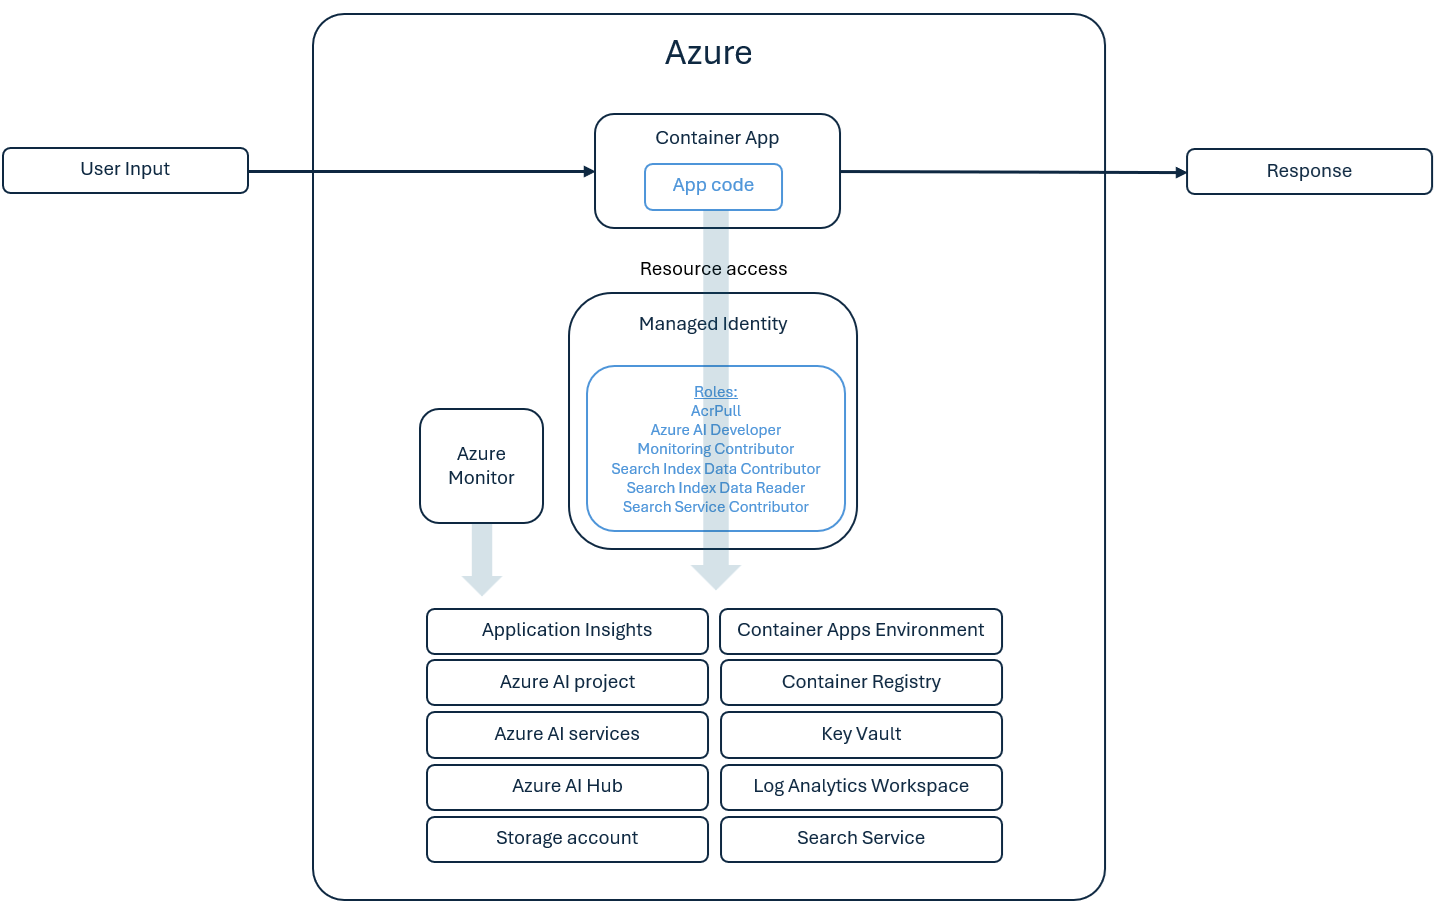
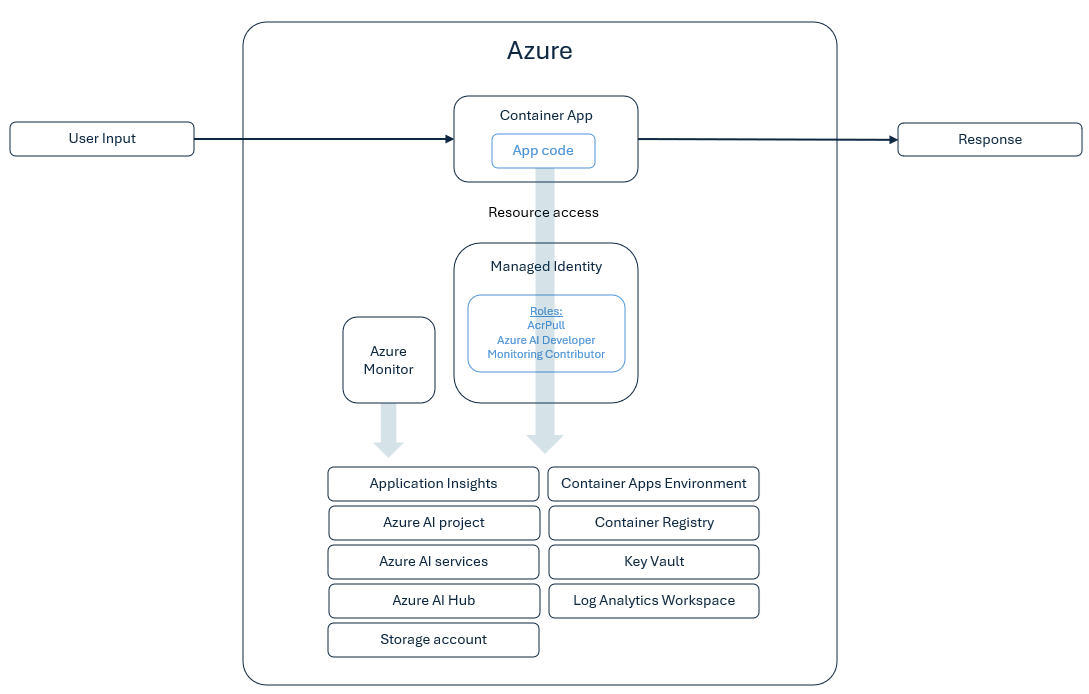
remove use existing from readme, restore architecture diagram without search (#13)

Changed region(s): [[0.0, 0.121, 0.9991, 0.9986], [0.2185, 0.0, 0.7493, 0.0908], [0.7493, 0.0303, 0.7805, 0.0605]]

diff --git a/README.md b/README.md
@@ -40,18 +40,6 @@ The default for the model capacity in deployment is 50k tokens. For optimal perf
 * Select Quota, click the GlobalStandard dropdown and select the model and region you are using for this accelerator to see your available quota. Please note GPT-4o mini and text-embedding-ada-002 are used as default.
 * Request more quota or delete any unused model deployments as needed.
 
-#### Bringing an existing AI project resource
-
-This step applies if you have an existing AI project resource, and you want to bring it into the solution. You can do that by setting the following environment variable:
-
-```shell
-azd env set AZURE_EXISTING_AIPROJECT_CONNECTION_STRING "<connection-string>"
-```
-
-You can find the connection string on the overview page of your Azure AI project.
-
-This solution has been configured to use "gpt-4o-mini" model. If you do not have a deployment named "gpt-4o-mini" in your existing AI project, you should either create one in Azure AI Foundry or follow the steps in [Customizing model deployments](#customizing-model-deployments) to specify a different model.
-
 #### Creating and Importing an Agent
 
 You can create an agent in your project to import to this template. For more information on creating an agent, view [Quickstart: Create a New Agent](https://learn.microsoft.com/azure/ai-services/agents/quickstart?pivots=ai-foundry). There are three agent creation options:
